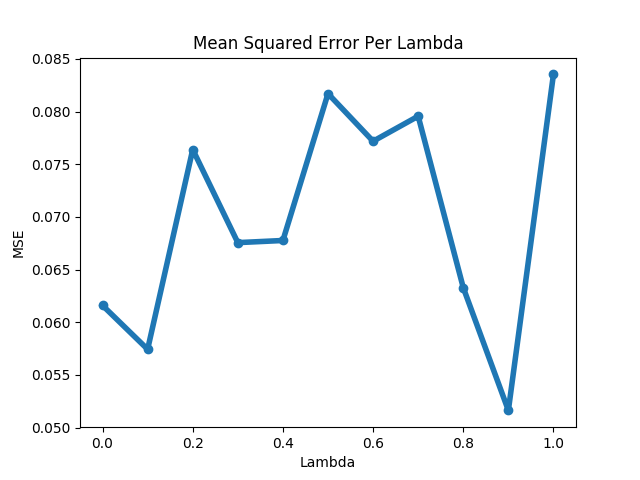
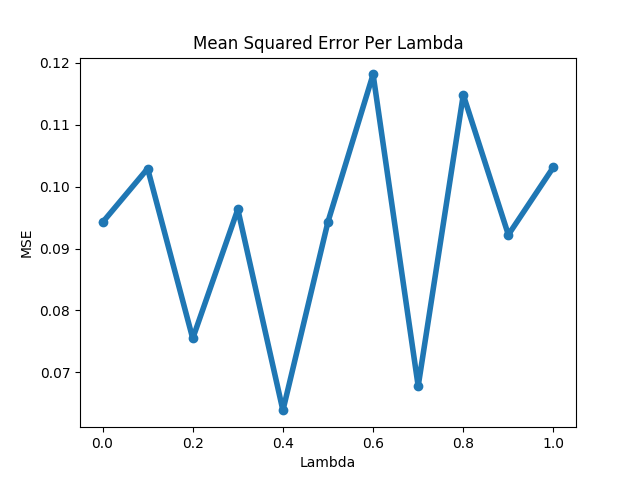
update index sum, and plots (#18)
* update index sum, and plots

* fix plot

* fix plot

* fix name

* update plots

* swap with 10k iter

diff --git a/playground/reinforcement_learning_intro/easy21/play_easy21.py b/playground/reinforcement_learning_intro/easy21/play_easy21.py
@@ -43,7 +43,7 @@ def main(args):
         print('Training TD-Sarsa Agent ...\n')
         print('Loading Monte-Carlo Agent ... hoping it exists!\n')
         # Monte-Carlo iteration, used to save the model name
-        mc_iter = 10000
+        mc_iter = 1000000
         model_name = 'monte-carlo-model_' + str(mc_iter) + '.pickle'
         mc_agent_q = pickle.load(open(model_name, 'rb'))
 
@@ -52,7 +52,8 @@ def main(args):
             sarsa_agent = TDS.SarsaAgent(
                     env, num_episodes=args.num_episodes, n0=args.n0)
             mse_per_lambdas, end_of_episode_mse = sarsa_agent.train(mc_agent_q)
-            util.plot_mse_eps_per_lambda(mse_per_lambdas)
+            util.plot_mse_eps_per_lambda(mse_per_lambdas, args.num_episodes,
+                                         agent_name=agent_mode)
             util.plot_lambda_vs_mse(end_of_episode_mse)
 
         if args.plot_lam_train_err:
@@ -76,14 +77,15 @@ def main(args):
         print('Training Linear-Function-Approximation-Sarsa Agent ...\n')
         print('Loading Monte-Carlo Agent ... hoping it exists!\n')
         # Monte-Carlo iteration, used to save the model name
-        mc_iter = 10000
+        mc_iter = 1000000
         model_name = 'monte-carlo-model_' + str(mc_iter) + '.pickle'
         mc_agent_q = pickle.load(open(model_name, 'rb'))
 
         sarsa_agent = lfasarsa.LFASarsaAgent(
                 env, num_episodes=args.num_episodes)
         mse_per_lambdas, end_of_episode_mse = sarsa_agent.train(mc_agent_q)
-        util.plot_mse_eps_per_lambda(mse_per_lambdas)
+        util.plot_mse_eps_per_lambda(mse_per_lambdas, args.num_episodes,
+                                     agent_name=agent_mode)
         util.plot_lambda_vs_mse(end_of_episode_mse)
         plot_name = 'lfa-sarsa-surface-plot-' + str(args.num_episodes)
         util.plot_and_save(env, sarsa_agent.V, plot_name)

diff --git a/playground/reinforcement_learning_intro/easy21/linear_function_approx.py b/playground/reinforcement_learning_intro/easy21/linear_function_approx.py
@@ -75,7 +75,7 @@ class LFASarsaAgent:
         if state.terminal:
             return 0
 
-        dealer_sum, player_sum = state.dealer_idx(), state.player_idx()
+        dealer_sum, player_sum = state.dealer_sum, state.player_sum
 
         state_features = np.zeros((self.feature_dim[0], self.feature_dim[1]),
                                   dtype=int)
@@ -113,14 +113,14 @@ class LFASarsaAgent:
                                          player_count,
                                          action_count))
 
-        for dealer in range(1, dealer_count+1):
-            for player in range(1, player_count+1):
+        for dealer in range(0, dealer_count):
+            for player in range(0, player_count):
                 for action in range(0, action_count):
                     state = easyEnv.State(dealer, player)
                     phi = self.make_features(state, action)
                     # Represent action-value function by a linear
                     # combination of features
-                    linear_comb_features[dealer-1, player-1, action] = \
+                    linear_comb_features[dealer, player, action] = \
                         np.dot(phi, self.W)
         return linear_comb_features
 

diff --git a/playground/reinforcement_learning_intro/easy21/td_learning_sarsa.py b/playground/reinforcement_learning_intro/easy21/td_learning_sarsa.py
@@ -56,8 +56,8 @@ class SarsaAgent:
         Returns:
             action: Chosen action based on Epsilon-greedy.
         """
-        dealer = state.dealer_sum - 1
-        player = state.player_sum - 1
+        dealer = state.dealer_sum
+        player = state.player_sum
         epsilon = self.get_epsilon(sum(self.N[dealer, player, :]))
         if np.random.rand() < (epsilon):
 
@@ -109,12 +109,12 @@ class SarsaAgent:
                     # Execute the action
                     next_state, reward = self.env.step(state, action)
                     # State-action index
-                    idx = state.dealer_sum - 1, state.player_sum - 1, action
+                    idx = state.dealer_sum, state.player_sum, action
 
                     if not next_state.terminal:
                         next_action = self.epsilon_greedy_policy(next_state)
-                        next_idx = next_state.dealer_sum - 1, \
-                            next_state.player_sum - 1, next_action
+                        next_idx = next_state.dealer_sum, \
+                            next_state.player_sum, next_action
 
                         td_error = reward + self.Q[next_idx] - self.Q[idx]
                     else:

diff --git a/playground/reinforcement_learning_intro/easy21/monte_carlo_control.py b/playground/reinforcement_learning_intro/easy21/monte_carlo_control.py
@@ -43,8 +43,8 @@ class MonteCarloAgent:
         Returns:
             action: Chosen action based on Epsilon-greedy.
         """
-        dealer = state.dealer_sum - 1
-        player = state.player_sum - 1
+        dealer = state.dealer_sum
+        player = state.player_sum
         epsilon = self.get_epsilon(sum(self.N[dealer, player, :]))
         if np.random.rand() < (epsilon):
 
@@ -72,7 +72,7 @@ class MonteCarloAgent:
                 player_trajectories.append((state, action))
 
                 # Book-keeping the visits
-                idx = state.dealer_sum - 1, state.player_sum - 1, action
+                idx = state.dealer_sum, state.player_sum, action
                 self.N[idx] += 1
 
                 # Execute the action
@@ -84,7 +84,7 @@ class MonteCarloAgent:
 
             # Update action-value function Q
             for state, action in player_trajectories:
-                idx = state.dealer_sum - 1, state.player_sum - 1, action
+                idx = state.dealer_sum, state.player_sum, action
                 alpha = 1.0 / self.N[idx]
                 self.Q[idx] += alpha * (reward - self.Q[idx])
 

diff --git a/playground/reinforcement_learning_intro/easy21/utils.py b/playground/reinforcement_learning_intro/easy21/utils.py
@@ -108,7 +108,7 @@ def plot_and_save(env, vstar, plot_name):
     fig.savefig(plt_name)
 
 
-def plot_mse_eps_per_lambda(mse_per_lambdas):
+def plot_mse_eps_per_lambda(mse_per_lambdas, episodes, agent_name='td-sarsa'):
 
     # https://stackoverflow.com/questions/45857465/create-a-2d-array-from-another-array-and-its-indices-with-numpy
     m, n = mse_per_lambdas.shape
@@ -122,10 +122,10 @@ def plot_mse_eps_per_lambda(mse_per_lambdas):
     df = pd.DataFrame(out, columns=['lambda', 'Episode', 'MSE'])
     df['lambda'] = df['lambda'] / 10
 
-    g = sns.FacetGrid(df, hue="lambda", size=8, legend_out=True)
-    g = g.map(plt.plot, "Episode", "MSE").add_legend()
+    g = sns.FacetGrid(df, hue='lambda', size=8, legend_out=True)
+    g = g.map(plt.plot, 'Episode', 'MSE').add_legend()
 
     plt.subplots_adjust(top=0.9)
     g.fig.suptitle('Mean Squared Error per Episode')
-
-    g.savefig('MSE_for_all_lambdas')
+    plot_name = 'MSE_for_all_lambdas_' + agent_name + '-' + str(episodes)
+    g.savefig(plot_name)

diff --git a/playground/reinforcement_learning_intro/easy21/easy21_environment.py b/playground/reinforcement_learning_intro/easy21/easy21_environment.py
@@ -30,21 +30,15 @@ class State:
         self.player_sum = player_sum
         self.terminal = terminal
 
-    def dealer_idx(self):
-        # We want to exclude the 0 index
-        return self.dealer_sum - 1
-
-    def player_idx(self):
-        return self.player_sum - 1
-
 
 class Easy21Env:
     """Easy21 environment. The game rules are similar to Blackjack.
     """
 
     def __init__(self):
-        self.player_value_count = 21
-        self.dealer_value_count = 10
+        # Assume indices 0-21
+        self.player_value_count = 22
+        self.dealer_value_count = 11
         self.action_count = 2
         self.dealer_sum = None
         self.player_sum = None

diff --git a/playground/reinforcement_learning_intro/easy21/README.md b/playground/reinforcement_learning_intro/easy21/README.md
@@ -10,12 +10,22 @@ Monte Carlo Surface Plot after 1M iterations
 
 ## TD-Sarsa Learning
 
-Mean squared error over all states and actions comparing the true Q computed using Monte-Carlo.
-![MSE per lambda](plot_results/MSE_for_all_lambdas_100K.png)
-
 Mean squared error against lambda.
 ![Final MSE per lambda](plot_results/TD-Sarsa-mse-per_lambda-10K.png)
 
+Mean squared error over all states and actions comparing the true Q computed using Monte-Carlo.
+![MSE per lambda](plot_results/TD-MSE_for_all_lambdas_td-sarsa-10K.png)
+
 
 ## Linear Function Approximation
+
+LFA-Sarsa Surface Plot after 10K iterations
+![LFA-Sarsa Surface Plot after 1M iterations](plot_results/lfa-sarsa-surface-plot-10K.png)
+
+Mean squared error against lambda.
+![Final MSE per lambda](plot_results/LFA_Sarsa-mse-per_lambda.png)
+
+Mean squared error over all states and actions comparing the true Q computed using Monte-Carlo.
+![LFA MSE per lambda](plot_results/MSE_for_all_lambdas_lfa-sarsa-10K-MC1M.png)
+
 
